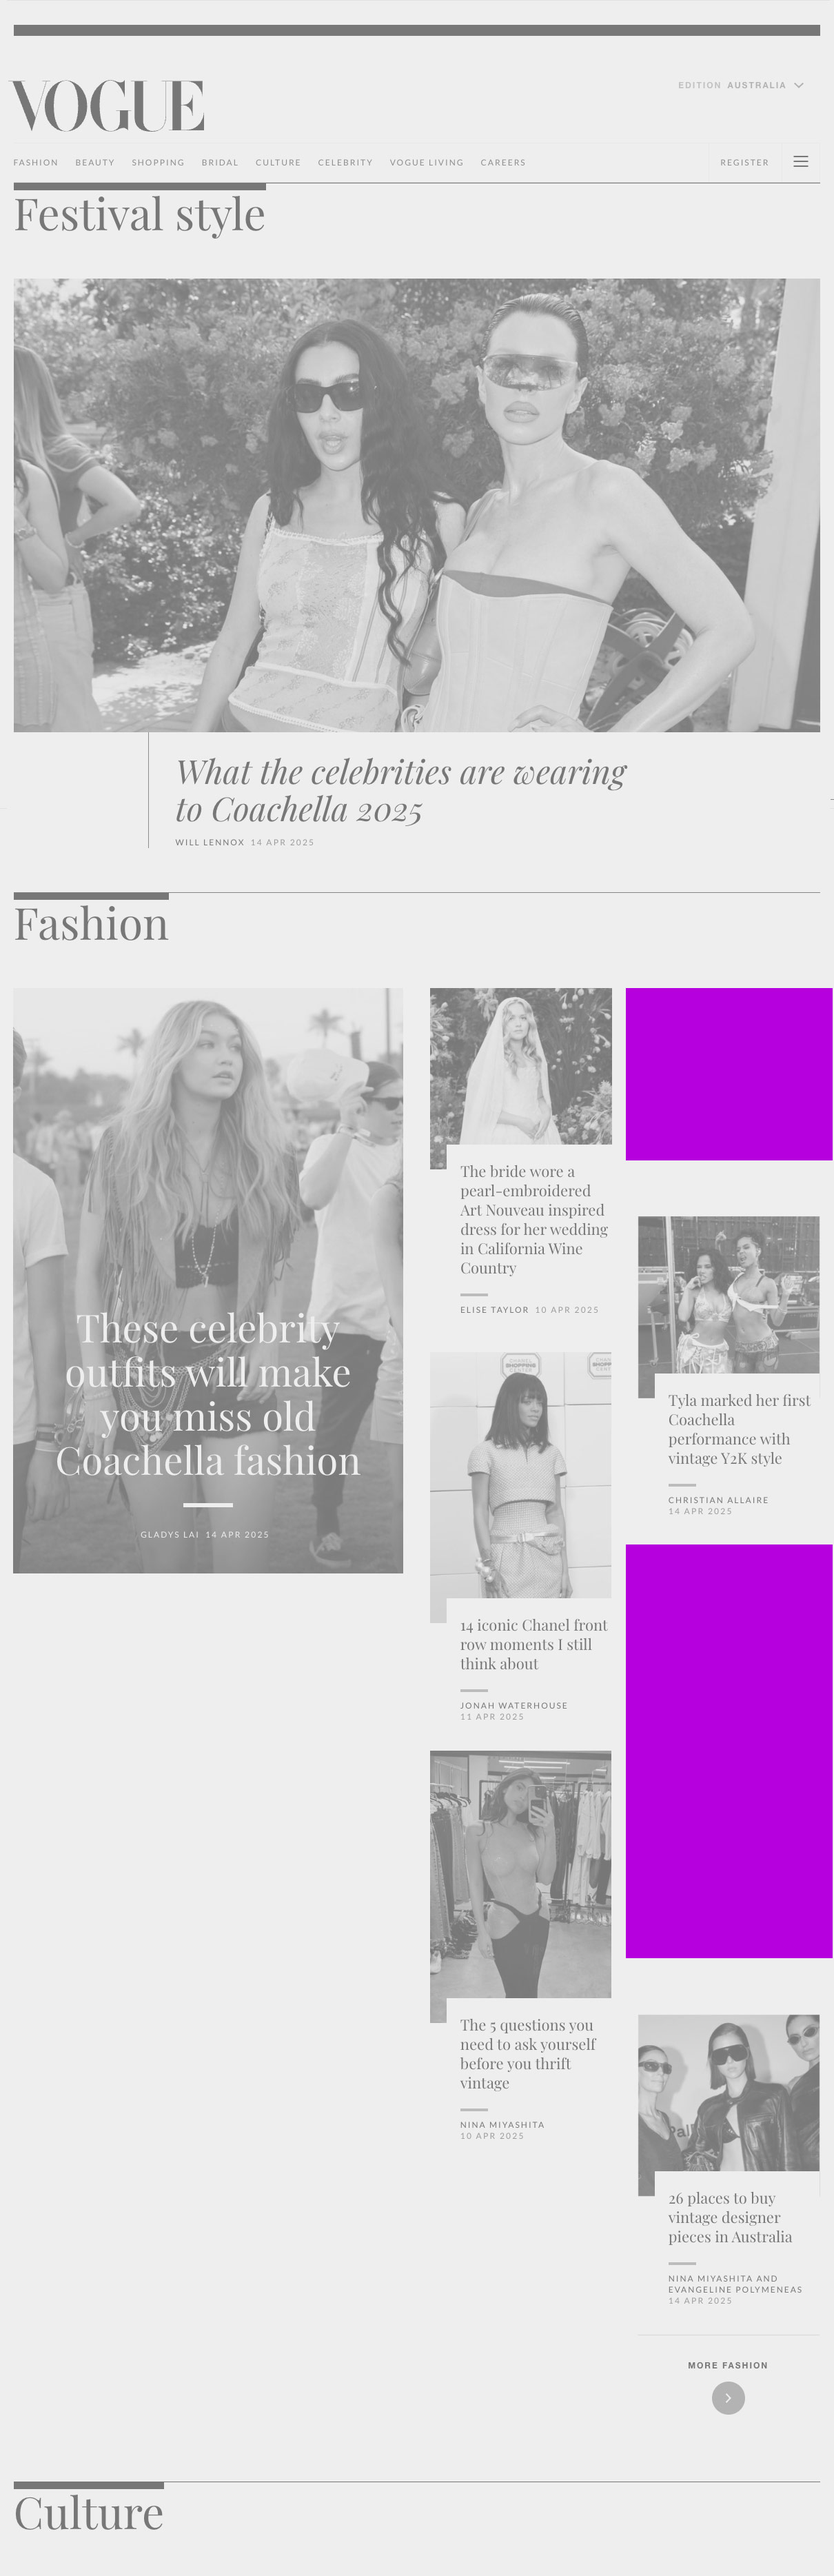
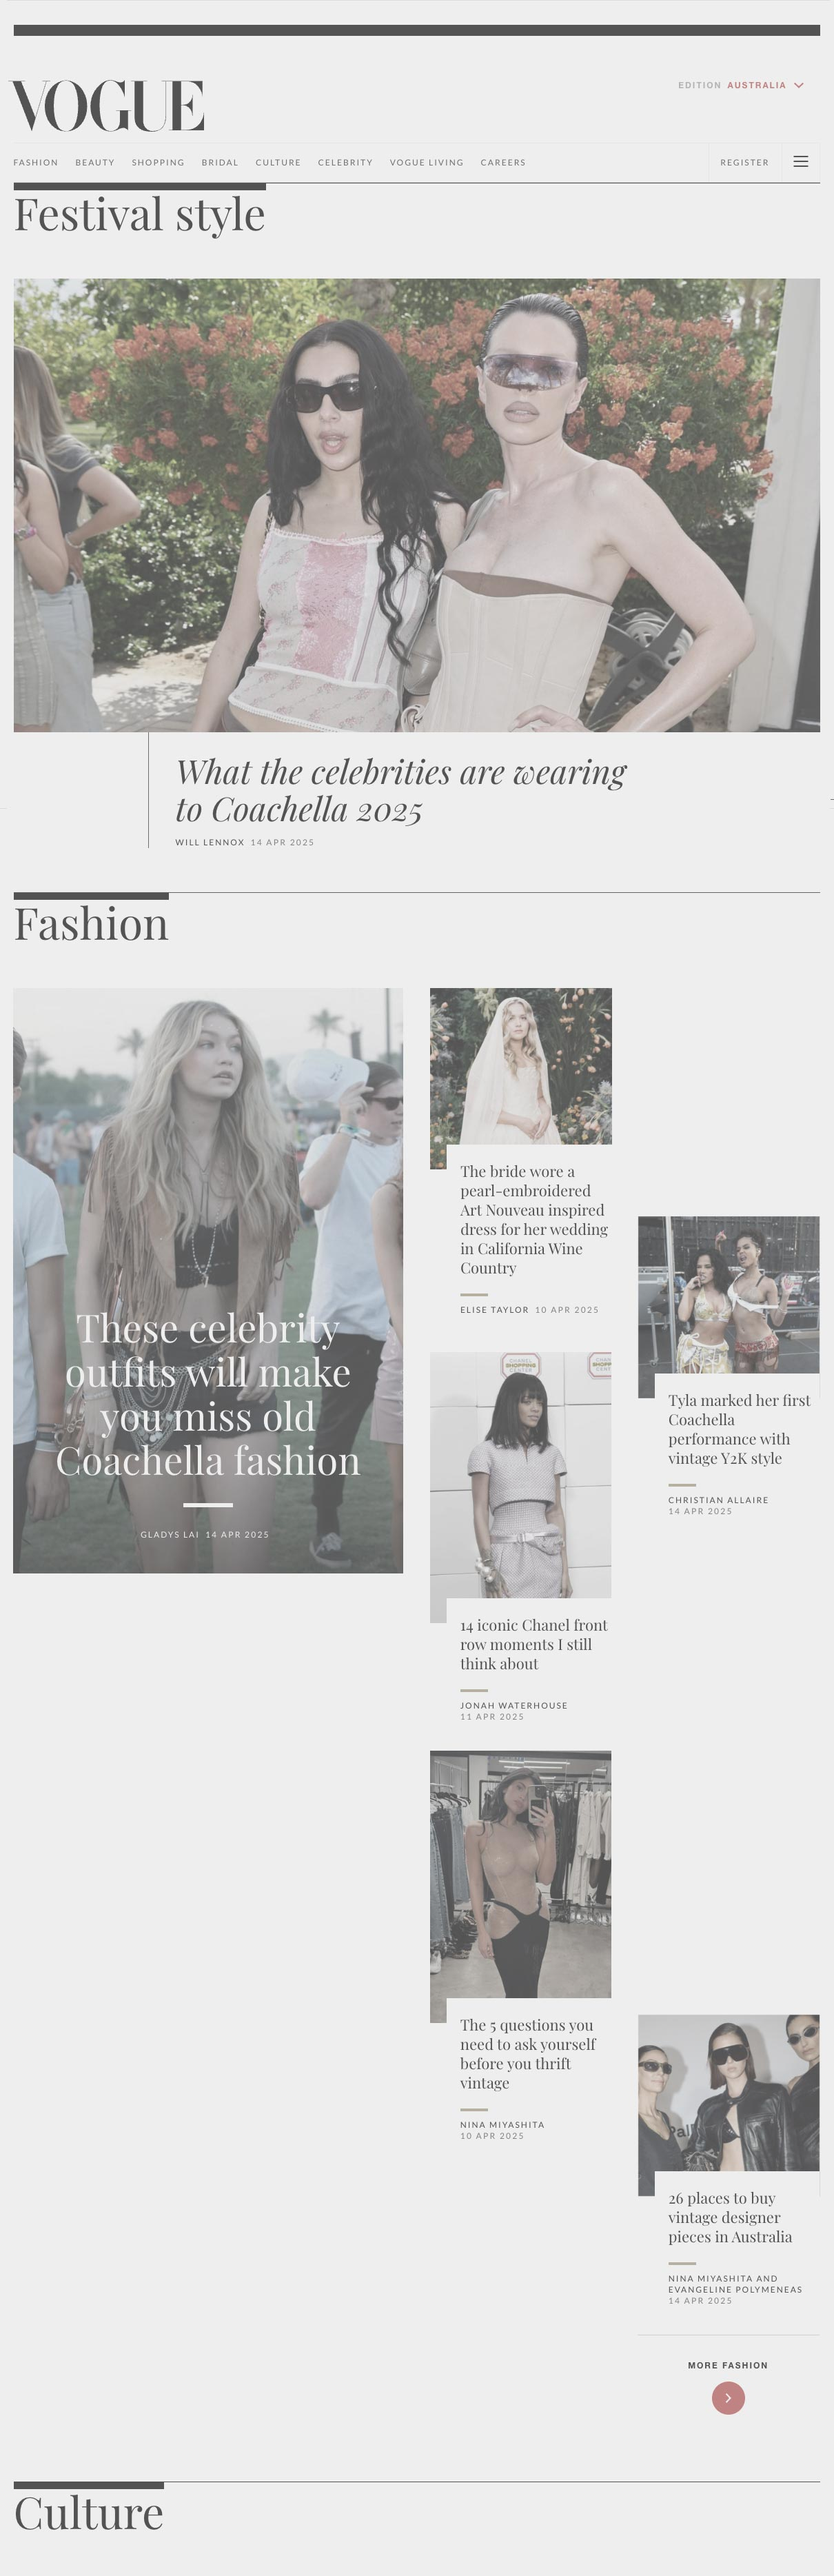
background saturation + video posteres

diff --git a/src/main.js b/src/main.js
@@ -3,10 +3,10 @@ import './style.css'
 document.querySelector('#app').innerHTML = `
   <div class="screenshot">
     <div class="banners">
-      <video class="banner mrec" width="300" height="250" autoplay muted>
+      <video class="banner mrec" width="300" height="250" autoplay muted poster="/iconic-300x250.webm">
         <source src="/iconic-300x250.webm" type="video/webm">
       </video>
-      <video class="banner halfpage" width="300" height="600" autoplay muted>
+      <video class="banner halfpage" width="300" height="600" autoplay muted poster="/iconic-300x600.webm">
         <source src="/iconic-300x600.webm" type="video/webm">
       </video>
     </div> 
